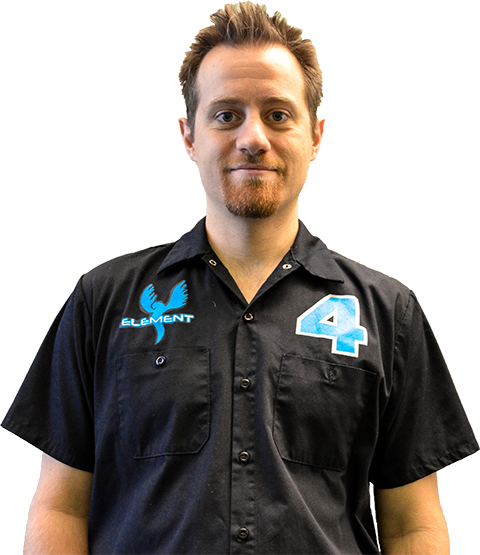
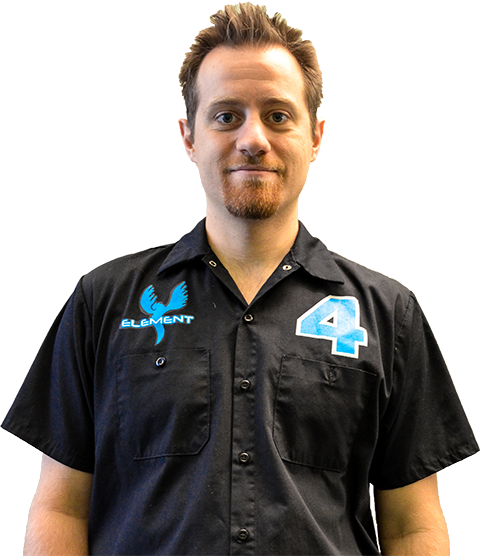
Adds mentors images height for Internet Explorer compatibility.

diff --git a/mentors.html b/mentors.html
@@ -39,7 +39,7 @@
 		<div class="post">
 			<table>
 				<tr>
-					<td><img width="240" height="auto" src="assets/images/mentors/MaralRostami.png"/></td>
+					<td><img width="240" height="370" src="assets/images/mentors/MaralRostami.png"/></td>
 					<td class="mentorInfo">
 						<h1>Maral Rostami</h1>
 						<h2>2008 - Present</h2>
@@ -56,14 +56,14 @@
 						<h2>2009 - Present</h2>
 						<h3>High Tech LA Mathematics</h3>
 					</td>
-					<td><img width="240" height="auto" src="assets/images/mentors/ArnoBabahekian.png"/></td>
+					<td><img width="240" height="278" src="assets/images/mentors/ArnoBabahekian.png"/></td>
 				</tr>
 			</table>
 		</div>
 		<div class="post">
 			<table>
 				<tr>
-					<td><img width="240" height="auto" src="assets/images/mentors/GuyChriqui.png"/></td>
+					<td><img width="240" height="345" src="assets/images/mentors/GuyChriqui.png"/></td>
 					<td class="mentorInfo">
 						<h1>Guy Chriqui</h1>
 						<h2>2012 - Present</h2>
@@ -80,14 +80,14 @@
 						<h2>2010 - Present</h2>
 						<h3>Pratt &amp; Whitney Rocketdyne, Inc.</h3>
 					</td>
-					<td><img width="240" height="auto" src="assets/images/mentors/NicholasHunter.png"/></td>
+					<td><img width="240" height="319" src="assets/images/mentors/NicholasHunter.png"/></td>
 				</tr>
 			</table>
 		</div>
 		<div class="post">
 			<table>
 				<tr>
-					<td><img width="240" height="auto" src="assets/images/mentors/MelanieJones.png"/></td>
+					<td><img width="240" height="539" src="assets/images/mentors/MelanieJones.png"/></td>
 					<td class="mentorInfo">
 						<h1>Melanie Jones</h1>
 						<h2>2010 - Present</h2>
